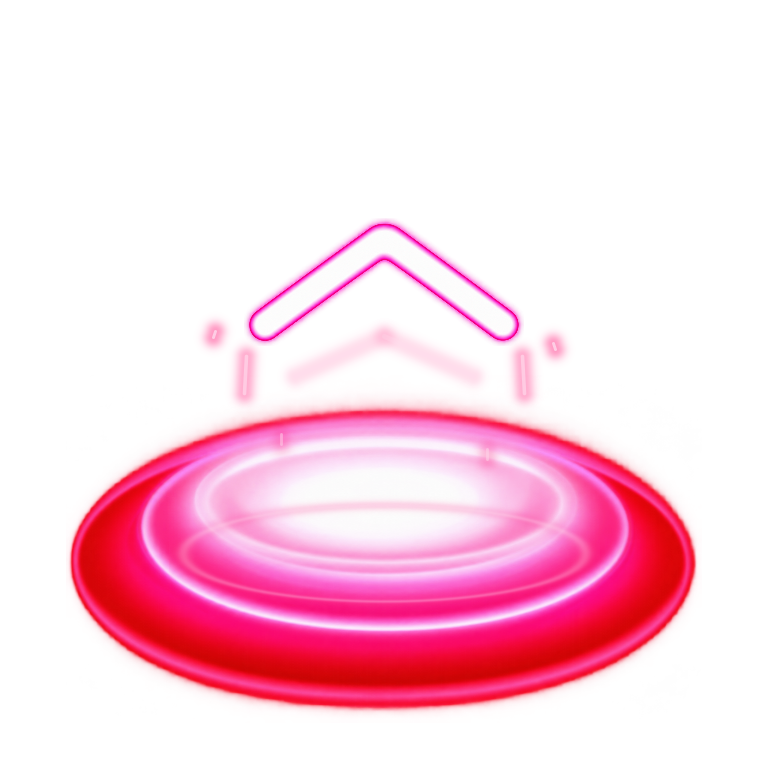
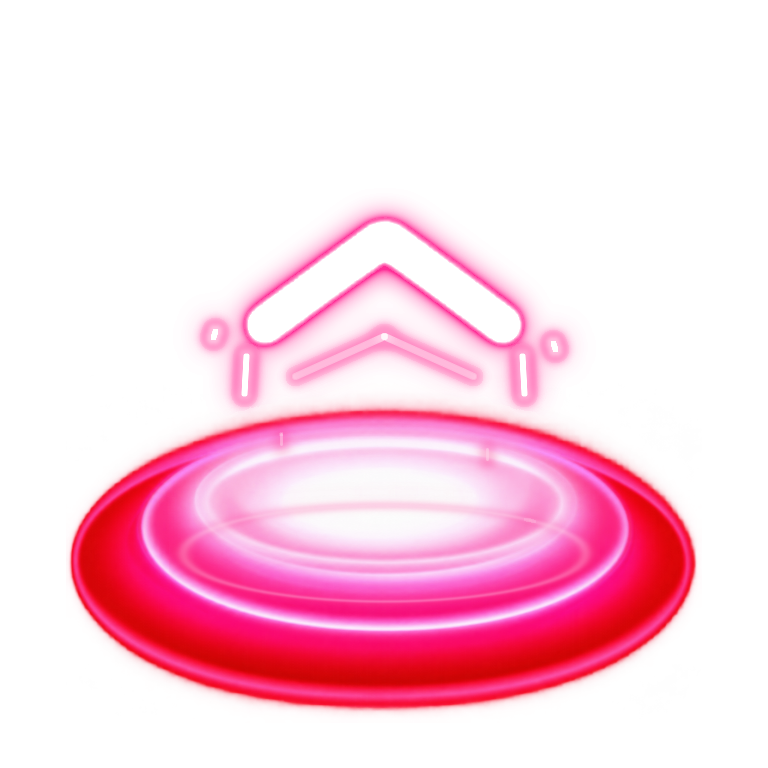
Make the flick chevron more vibrant
Give the chevron in the six animation frames a solid white core and a
hot-pink neon glow (tools/brighten_flick_frames.py, originals kept in
assets/neon/flick/source), and stop the note brightness setting from
dimming the chevron to grey; the puck still follows it.

Changed region(s): [[0.25, 0.25, 0.75, 0.5312]]

diff --git a/tools/brighten_flick_frames.py b/tools/brighten_flick_frames.py
@@ -1,0 +1,72 @@
+"""Make the flick chevron in the six animation frames more vibrant.
+
+Reads the original artwork from assets/neon/flick/source/ and writes the game
+frames to assets/neon/flick/. The puck is left untouched; only the chevron
+(and its small spark lines) gets a solid white core and a hot-pink neon glow.
+
+    python tools/brighten_flick_frames.py
+"""
+from pathlib import Path
+
+import numpy as np
+from PIL import Image, ImageFilter
+
+ROOT = Path(__file__).resolve().parent.parent
+SRC = ROOT / "assets/neon/flick/source"
+OUT = ROOT / "assets/neon/flick"
+
+# Rows above this hold only chevron/sparks in every frame; below it is the puck.
+PUCK_TOP = 380
+# Over the puck the chevron (frames 1-3) stays inside this box; the puck's inner
+# rings shift slightly between frames, so nothing outside it is treated as chevron.
+CHEVRON_BOX = (220, 380, 550, 525)  # x0, y0, x1, y1
+GLOW = np.array([255, 46, 150], dtype=float)  # hot pink neon
+CORE_BOOST = 1.6   # how much the chevron core's opacity is lifted
+GLOW_NEAR = 2.4   # tight glow strength
+GLOW_FAR = 1.5    # wide glow strength
+
+
+def blur(mask: np.ndarray, radius: float) -> np.ndarray:
+    img = Image.fromarray(np.clip(mask * 255, 0, 255).astype(np.uint8))
+    return np.asarray(img.filter(ImageFilter.GaussianBlur(radius))).astype(float) / 255
+
+
+def dilate(mask: np.ndarray, size: int) -> np.ndarray:
+    img = Image.fromarray(np.clip(mask * 255, 0, 255).astype(np.uint8))
+    return np.asarray(img.filter(ImageFilter.MaxFilter(size))).astype(float) / 255
+
+
+def main() -> None:
+    frames = [np.asarray(Image.open(SRC / f"flick_{i}.png").convert("RGBA")).astype(float) / 255 for i in range(1, 7)]
+    # The last frame's chevron is far above the puck: with its top rows cleared it is
+    # a clean puck to compare every frame against.
+    clean_disc = frames[-1].copy()
+    clean_disc[:PUCK_TOP] = 0
+    inside = clean_disc[..., 3] > 0.02
+    box = np.zeros(inside.shape, bool)
+    x0, y0, x1, y1 = CHEVRON_BOX
+    box[y0:y1, x0:x1] = True
+    for i, f in enumerate(frames, start=1):
+        rgb, a = f[..., :3], f[..., 3]
+        # Over the puck, the chevron is whatever is whiter than the clean disc.
+        lift = np.clip((rgb.mean(axis=2) * a - clean_disc[..., :3].mean(axis=2) * clean_disc[..., 3]) * 4.0, 0, 1)
+        mask = np.where(inside, np.where(box, lift, 0.0), a)
+        mask = np.where(mask > 0.08, mask, 0.0)
+        core = np.clip(dilate(mask, 3) * CORE_BOOST, 0, 1)
+        glow = np.clip(blur(mask, 5) * GLOW_NEAR + blur(mask, 14) * GLOW_FAR, 0, 1)
+        glow = np.where(inside, glow * 0.6, glow)  # keep the puck's own colour readable
+
+        # Glow over the original (premultiplied "over").
+        out_a = glow + a * (1 - glow)
+        out_rgb = (GLOW * glow[..., None] / 255 + rgb * a[..., None] * (1 - glow[..., None])) / np.maximum(out_a, 1e-6)[..., None]
+        # Solid white core on top.
+        out_rgb = out_rgb * (1 - core[..., None]) + core[..., None]
+        out_a = core + out_a * (1 - core)
+
+        out = np.dstack([out_rgb, out_a])
+        Image.fromarray(np.clip(out * 255 + 0.5, 0, 255).astype(np.uint8), "RGBA").save(OUT / f"flick_{i}.png")
+        print(f"flick_{i}.png")
+
+
+if __name__ == "__main__":
+    main()
